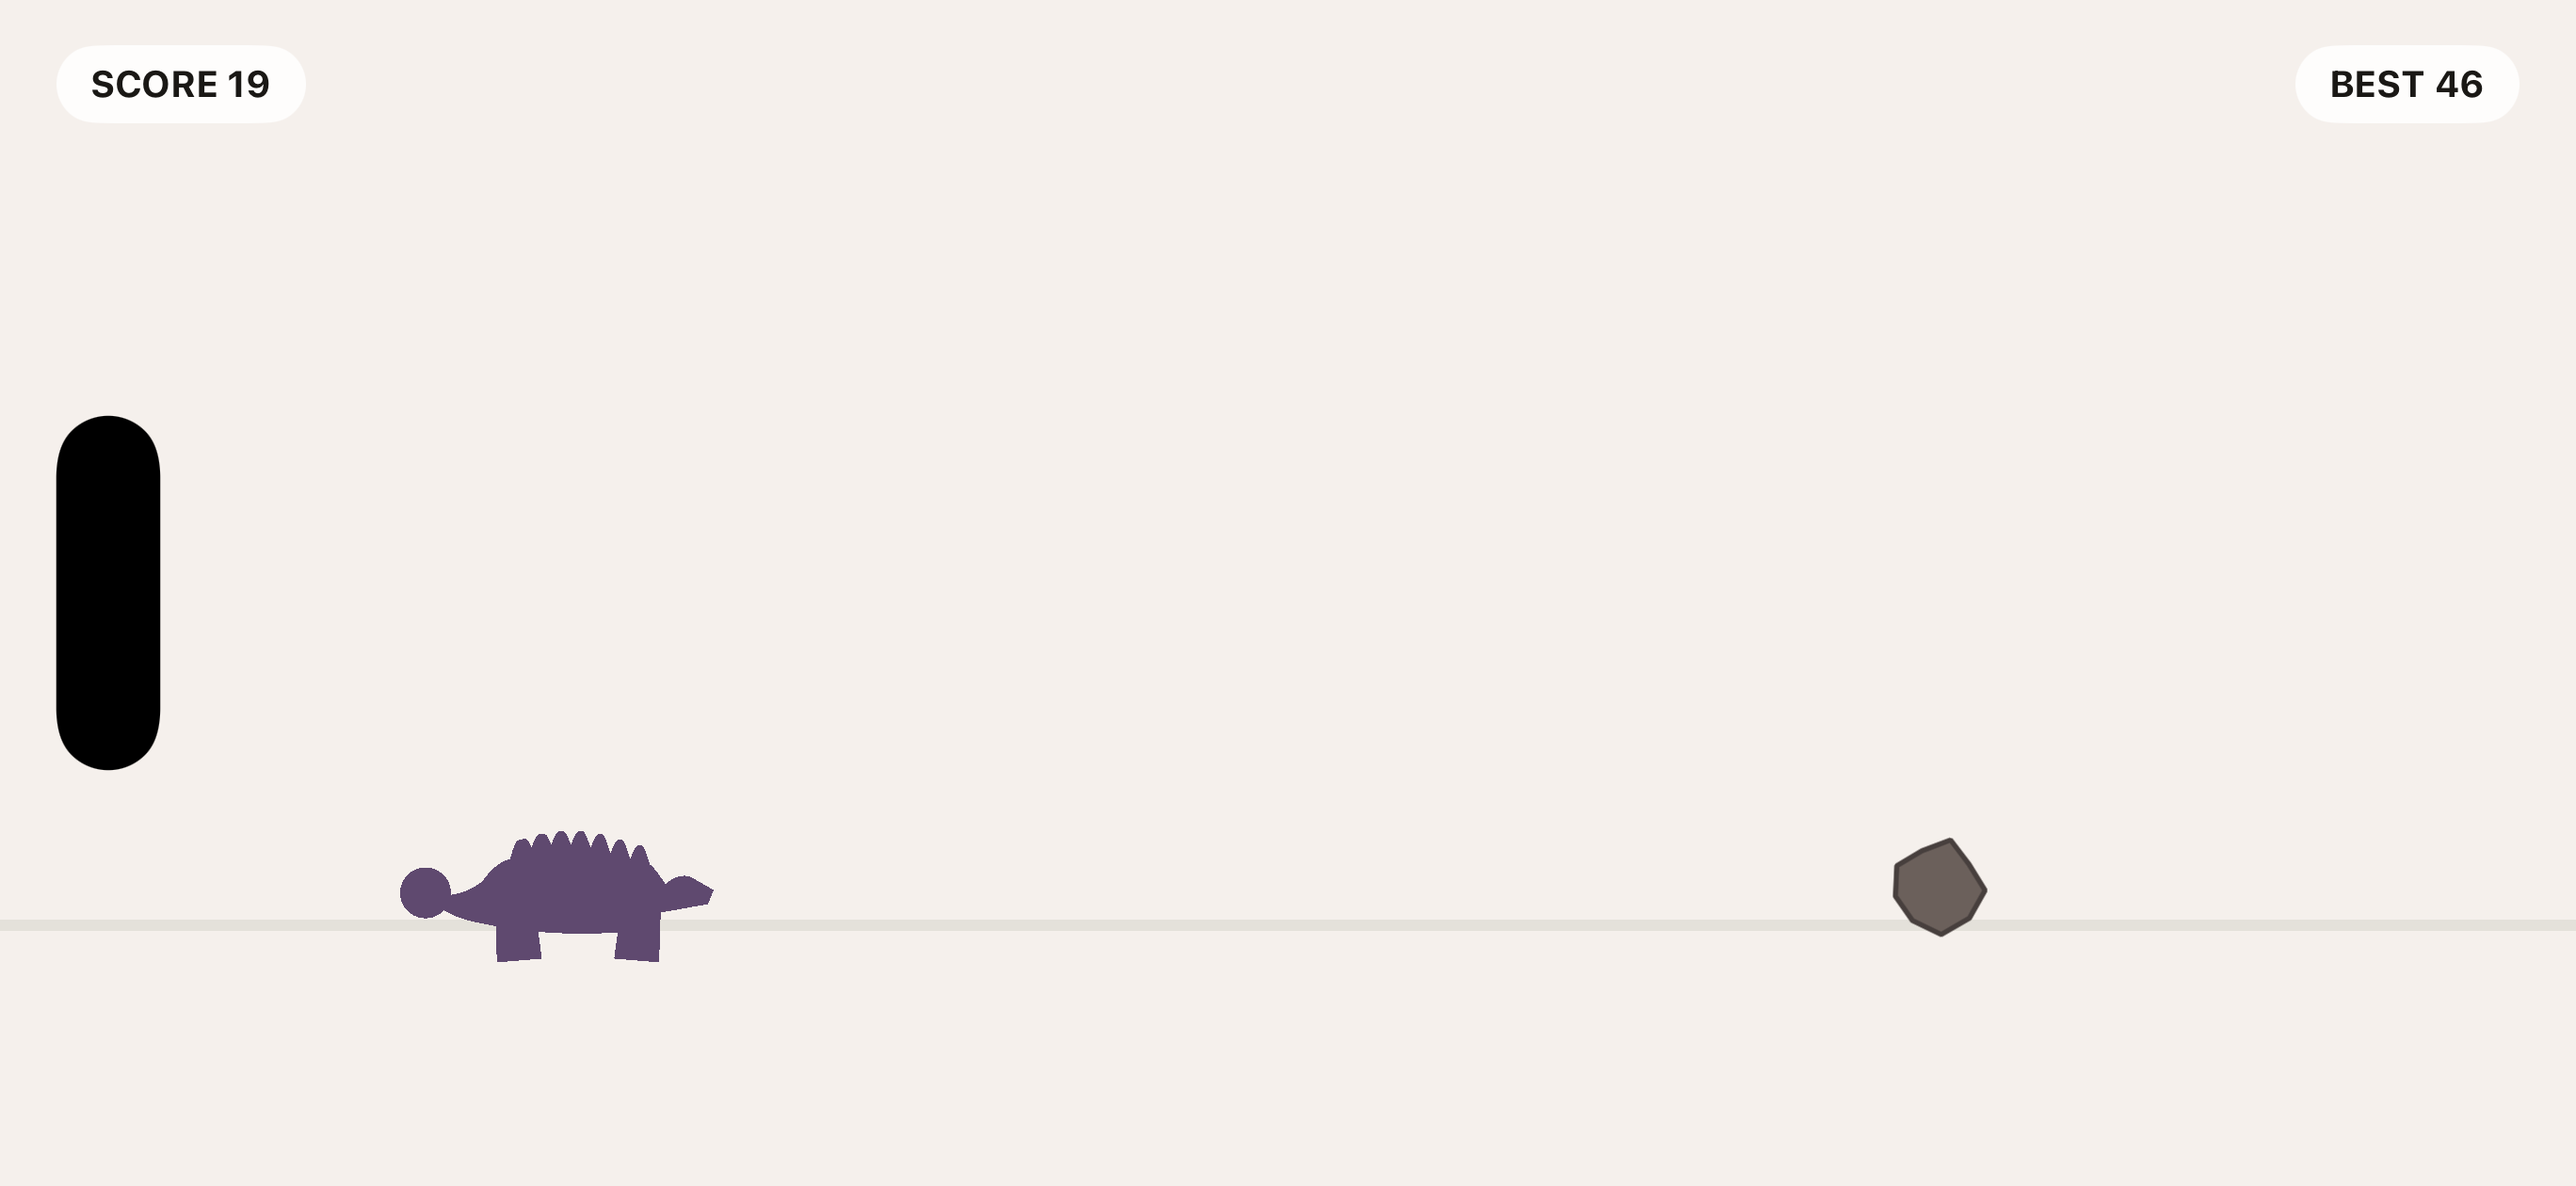
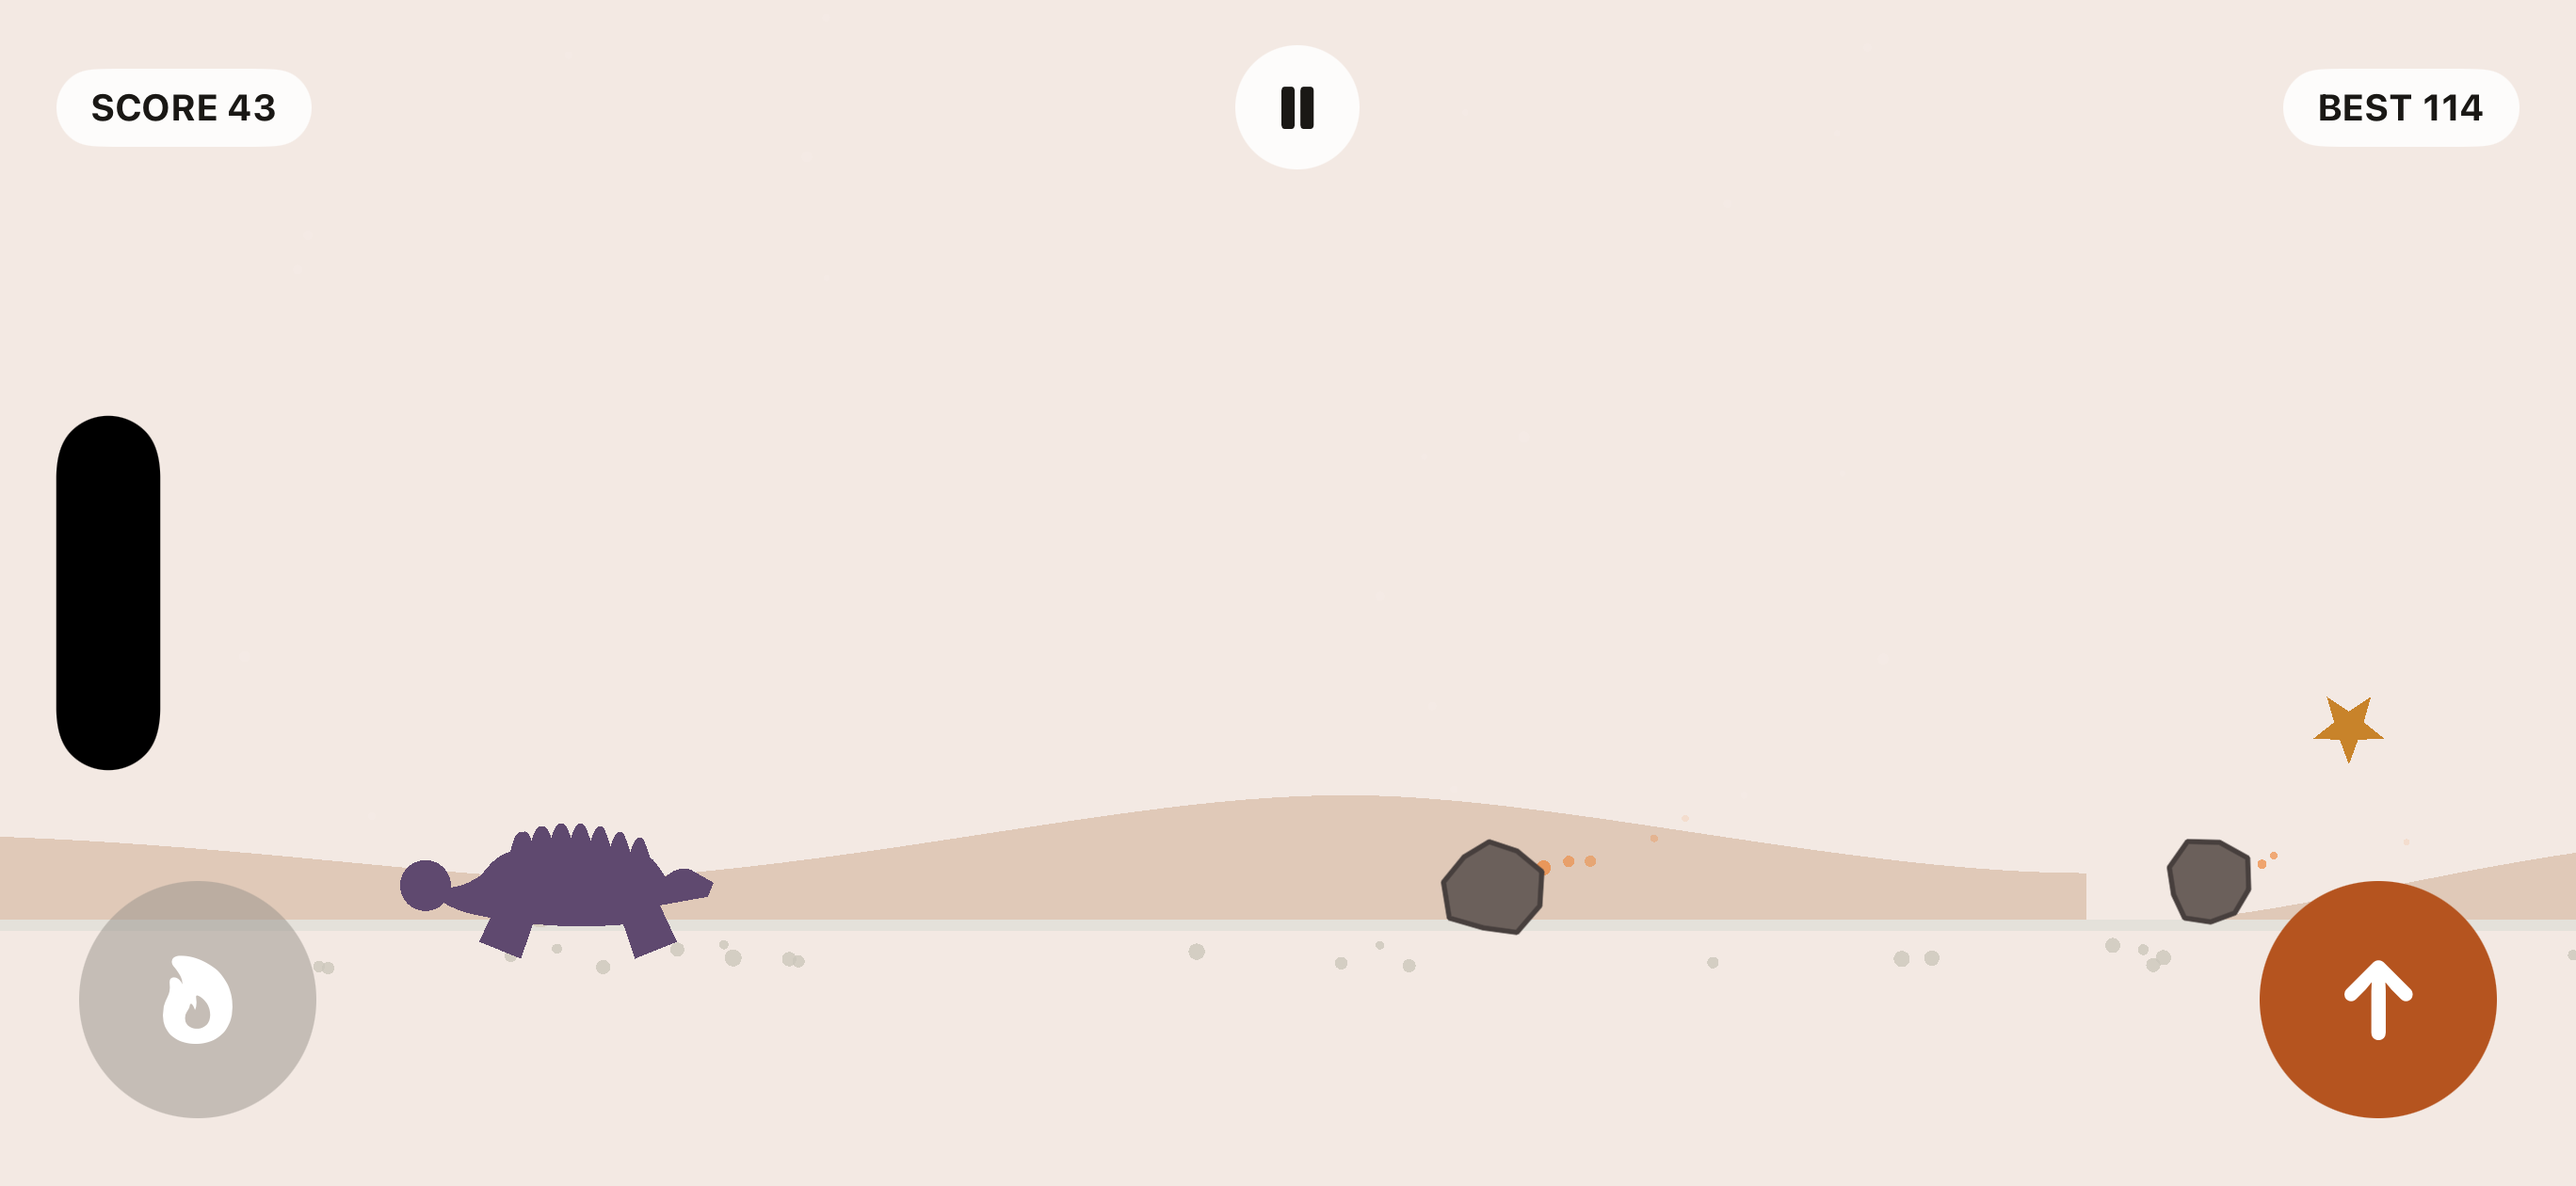
Add visual polish: parallax hills, score pop-ups, dust puffs, milestone confetti, ground texture
- Two recycling hill silhouettes scroll at a fraction of gameSpeed for depth
- Every scoring moment (near-miss, star, roar) now shows a floating +N
- Small dust puffs kick up behind the dino's feet while running
- A confetti burst + haptic fires every 250 points, on top of the existing
  gradual background-color shift
- Small pebbles scroll along the ground line for texture

All verified live in the Simulator (hills, dust, and ground texture visible
in a single captured frame; pop-ups and confetti reuse the same SKAction
pattern already confirmed working for sparks/embers).

diff --git a/DinoDash/Game/GameScene.swift b/DinoDash/Game/GameScene.swift
@@ -14,6 +14,12 @@ final class GameScene: SKScene, SKPhysicsContactDelegate {
     private var distanceSinceSpawn: CGFloat = 0
     private var nextSpawnDistance: CGFloat = GameScene.firstSpawnDistance
     private var starsLayer: SKNode!
+    private var hillsLayer: SKNode!
+    private var hillTiles: [SKShapeNode] = []
+    private var hillTileWidth: CGFloat = 0
+
+    private static let milestoneInterval = 250
+    private var nextMilestoneScore = GameScene.milestoneInterval
 
     /// A gentler opening: slower starting speed and a longer gap before the very first obstacle,
     /// so a new player (especially a kid) gets a few seconds to find the jump timing before
@@ -69,6 +75,8 @@ final class GameScene: SKScene, SKPhysicsContactDelegate {
         addChild(starsLayer)
         scatterBackgroundStars()
 
+        setupHills()
+
         dino = (gameState?.selectedDino ?? .ankylosaurus).makeNode()
         dino.zPosition = 5
         addChild(dino)
@@ -88,6 +96,62 @@ final class GameScene: SKScene, SKPhysicsContactDelegate {
         }
     }
 
+    private static let hillColor = SKColor(red: 0.80, green: 0.66, blue: 0.55, alpha: 0.5)
+
+    /// Two wide hill silhouettes that scroll slower than the foreground (a fraction of
+    /// `gameSpeed`) and recycle from left to right, giving a cheap sense of depth behind the
+    /// action without needing more than two nodes ever on screen.
+    private func setupHills() {
+        hillsLayer = SKNode()
+        hillsLayer.zPosition = 0.5
+        addChild(hillsLayer)
+
+        hillTileWidth = size.width * 1.15
+        for i in 0..<2 {
+            let hill = makeHillTile(width: hillTileWidth)
+            hill.position = CGPoint(x: hillTileWidth / 2 + CGFloat(i) * hillTileWidth, y: groundY)
+            hillsLayer.addChild(hill)
+            hillTiles.append(hill)
+        }
+    }
+
+    private func makeHillTile(width: CGFloat) -> SKShapeNode {
+        let h: CGFloat = 46
+        let path = UIBezierPath()
+        path.move(to: CGPoint(x: -width / 2, y: 0))
+        path.addCurve(to: CGPoint(x: -width / 4, y: h * 0.7),
+                       controlPoint1: CGPoint(x: -width * 0.42, y: 0),
+                       controlPoint2: CGPoint(x: -width * 0.36, y: h * 0.7))
+        path.addCurve(to: CGPoint(x: 0, y: h * 0.35),
+                       controlPoint1: CGPoint(x: -width * 0.14, y: h * 0.7),
+                       controlPoint2: CGPoint(x: -width * 0.06, y: h * 0.35))
+        path.addCurve(to: CGPoint(x: width / 4, y: h),
+                       controlPoint1: CGPoint(x: width * 0.10, y: h * 0.5),
+                       controlPoint2: CGPoint(x: width * 0.18, y: h))
+        path.addCurve(to: CGPoint(x: width / 2, y: h * 0.4),
+                       controlPoint1: CGPoint(x: width * 0.32, y: h),
+                       controlPoint2: CGPoint(x: width * 0.42, y: h * 0.4))
+        path.addLine(to: CGPoint(x: width / 2, y: 0))
+        path.close()
+
+        let hill = SKShapeNode(path: path.cgPath)
+        hill.fillColor = GameScene.hillColor
+        hill.strokeColor = .clear
+        return hill
+    }
+
+    private func updateHills(dt: CGFloat) {
+        let parallaxSpeed = gameSpeed * 0.35
+        for hill in hillTiles {
+            hill.position.x -= parallaxSpeed * dt
+        }
+        guard let leftmost = hillTiles.min(by: { $0.position.x < $1.position.x }),
+              let rightmost = hillTiles.max(by: { $0.position.x < $1.position.x }) else { return }
+        if leftmost.position.x < -hillTileWidth / 2 {
+            leftmost.position.x = rightmost.position.x + hillTileWidth
+        }
+    }
+
     func startRun() {
         enumerateChildNodes(withName: "obstacle") { node, _ in node.removeFromParent() }
         enumerateChildNodes(withName: "star") { node, _ in node.removeFromParent() }
@@ -98,9 +162,15 @@ final class GameScene: SKScene, SKPhysicsContactDelegate {
         distanceSinceSpawn = 0
         nextSpawnDistance = GameScene.firstSpawnDistance
         nextRoarScore = GameScene.roarInterval
+        nextMilestoneScore = GameScene.milestoneInterval
         isOnGround = true
         isPlaying = true
         gameState?.isRoarReady = false
+
+        enumerateChildNodes(withName: "pebble") { node, _ in node.removeFromParent() }
+        for (i, hill) in hillTiles.enumerated() {
+            hill.position.x = hillTileWidth / 2 + CGFloat(i) * hillTileWidth
+        }
 
         dino.position = CGPoint(x: size.width * 0.22, y: groundY + 20)
         dino.reset()
@@ -162,7 +232,11 @@ final class GameScene: SKScene, SKPhysicsContactDelegate {
             self.spawnSpark(at: node.position)
             node.removeFromParent()
         }
-        gameState?.score += destroyed * 10
+        if destroyed > 0 {
+            gameState?.score += destroyed * 10
+            spawnScorePopup("+\(destroyed * 10)", at: CGPoint(x: dino.position.x, y: dino.position.y + 40),
+                             color: SKColor(red: 0.76, green: 0.24, blue: 0.13, alpha: 1))
+        }
     }
 
     /// Handled natively by SpriteKit rather than a SwiftUI `.onTapGesture` on the hosting
@@ -190,7 +264,20 @@ final class GameScene: SKScene, SKPhysicsContactDelegate {
             gameState.isRoarReady = true
         }
 
+        if let gameState, gameState.score >= nextMilestoneScore {
+            nextMilestoneScore += GameScene.milestoneInterval
+            celebrateMilestone(score: gameState.score)
+        }
+
         distanceSinceSpawn += gameSpeed * CGFloat(dt)
+        updateHills(dt: CGFloat(dt))
+
+        if isOnGround, CGFloat.random(in: 0...1) < 0.22 {
+            spawnDustPuff()
+        }
+        if CGFloat.random(in: 0...1) < 0.08 {
+            spawnGroundPebble()
+        }
 
         enumerateChildNodes(withName: "obstacle") { [weak self] node, _ in
             guard let self else { return }
@@ -205,6 +292,11 @@ final class GameScene: SKScene, SKPhysicsContactDelegate {
             guard let self else { return }
             node.position.x -= self.gameSpeed * CGFloat(dt)
             if node.position.x < -80 { node.removeFromParent() }
+        }
+        enumerateChildNodes(withName: "pebble") { [weak self] node, _ in
+            guard let self else { return }
+            node.position.x -= self.gameSpeed * CGFloat(dt)
+            if node.position.x < -20 { node.removeFromParent() }
         }
 
         if distanceSinceSpawn >= nextSpawnDistance {
@@ -225,7 +317,9 @@ final class GameScene: SKScene, SKPhysicsContactDelegate {
         asteroid.userData?["counted"] = true
         if !isOnGround {
             gameState?.score += 5
-            spawnSpark(at: CGPoint(x: dino.position.x, y: dino.position.y + 20))
+            let point = CGPoint(x: dino.position.x, y: dino.position.y + 20)
+            spawnSpark(at: point)
+            spawnScorePopup("+5", at: CGPoint(x: point.x, y: point.y + 16))
         }
     }
 
@@ -240,6 +334,106 @@ final class GameScene: SKScene, SKPhysicsContactDelegate {
             .group([.scale(to: 2.2, duration: 0.3), .fadeOut(withDuration: 0.3), .moveBy(x: 0, y: 18, duration: 0.3)]),
             .removeFromParent()
         ]))
+    }
+
+    /// A floating "+N" that rises and fades — used at every scoring moment (near-miss, star,
+    /// roar) so it's always visually obvious *why* the score just jumped.
+    private func spawnScorePopup(_ text: String, at point: CGPoint,
+                                  color: SKColor = SKColor(red: 0.93, green: 0.52, blue: 0.22, alpha: 1)) {
+        let label = SKLabelNode(text: text)
+        label.fontName = "AvenirNext-Heavy"
+        label.fontSize = 20
+        label.fontColor = color
+        label.position = point
+        label.zPosition = 8
+        label.verticalAlignmentMode = .center
+        addChild(label)
+        label.run(.sequence([
+            .group([
+                .moveBy(x: 0, y: 34, duration: 0.6),
+                .scale(to: 1.15, duration: 0.6),
+                .sequence([.wait(forDuration: 0.25), .fadeOut(withDuration: 0.35)])
+            ]),
+            .removeFromParent()
+        ]))
+    }
+
+    private func spawnDustPuff() {
+        let dust = SKShapeNode(circleOfRadius: CGFloat.random(in: 2...4))
+        dust.fillColor = SKColor(red: 0.75, green: 0.68, blue: 0.58, alpha: 0.5)
+        dust.strokeColor = .clear
+        dust.position = CGPoint(x: dino.position.x + CGFloat.random(in: -12...(-2)),
+                                 y: groundY + CGFloat.random(in: 0...4))
+        dust.zPosition = 1.2
+        addChild(dust)
+        dust.run(.sequence([
+            .group([
+                .moveBy(x: CGFloat.random(in: -16...(-6)), y: CGFloat.random(in: 4...10), duration: 0.35),
+                .fadeOut(withDuration: 0.35),
+                .scale(to: 1.8, duration: 0.35)
+            ]),
+            .removeFromParent()
+        ]))
+    }
+
+    private func spawnGroundPebble() {
+        let pebble = SKShapeNode(circleOfRadius: CGFloat.random(in: 1.5...3))
+        pebble.fillColor = SKColor(red: 0.80, green: 0.78, blue: 0.74, alpha: 0.8)
+        pebble.strokeColor = .clear
+        pebble.position = CGPoint(x: size.width + 10, y: groundY - CGFloat.random(in: 6...16))
+        pebble.zPosition = 1.1
+        pebble.name = "pebble"
+        addChild(pebble)
+    }
+
+    private static let confettiColors: [SKColor] = [
+        SKColor(red: 0.93, green: 0.52, blue: 0.22, alpha: 1),
+        SKColor(red: 0.788, green: 0.514, blue: 0.165, alpha: 1),
+        SKColor(red: 0.478, green: 0.353, blue: 0.541, alpha: 1),
+        SKColor(red: 0.376, green: 0.290, blue: 0.439, alpha: 1),
+        SKColor(red: 0.76, green: 0.24, blue: 0.13, alpha: 1)
+    ]
+
+    /// A brief confetti burst plus a big score callout — fires every `milestoneInterval` points,
+    /// giving a more overt "nice!" moment than the gradual background-color shift alone provides.
+    private func celebrateMilestone(score: Int) {
+        UINotificationFeedbackGenerator().notificationOccurred(.success)
+
+        let label = SKLabelNode(text: "\(score)!")
+        label.fontName = "AvenirNext-Heavy"
+        label.fontSize = 42
+        label.fontColor = SKColor(red: 0.71, green: 0.33, blue: 0.12, alpha: 1)
+        label.position = CGPoint(x: size.width / 2, y: size.height * 0.62)
+        label.zPosition = 9
+        label.alpha = 0
+        label.setScale(0.6)
+        addChild(label)
+        label.run(.sequence([
+            .group([.fadeIn(withDuration: 0.15), .scale(to: 1.15, duration: 0.25)]),
+            .scale(to: 1.0, duration: 0.15),
+            .wait(forDuration: 0.5),
+            .group([.fadeOut(withDuration: 0.3), .moveBy(x: 0, y: 20, duration: 0.3)]),
+            .removeFromParent()
+        ]))
+
+        for _ in 0..<14 {
+            let confetti = SKShapeNode(rectOf: CGSize(width: 6, height: 6), cornerRadius: 1.5)
+            confetti.fillColor = GameScene.confettiColors.randomElement()!
+            confetti.strokeColor = .clear
+            confetti.position = CGPoint(x: CGFloat.random(in: size.width * 0.2...size.width * 0.8),
+                                         y: size.height * CGFloat.random(in: 0.75...0.95))
+            confetti.zPosition = 9
+            confetti.zRotation = CGFloat.random(in: 0...(.pi * 2))
+            addChild(confetti)
+            confetti.run(.sequence([
+                .group([
+                    .moveBy(x: CGFloat.random(in: -30...30), y: -CGFloat.random(in: 120...220), duration: 0.9),
+                    .rotate(byAngle: CGFloat.random(in: -4...4), duration: 0.9),
+                    .sequence([.wait(forDuration: 0.5), .fadeOut(withDuration: 0.4)])
+                ]),
+                .removeFromParent()
+            ]))
+        }
     }
 
     private func spawnAsteroidTrail(at point: CGPoint) {
@@ -305,6 +499,8 @@ final class GameScene: SKScene, SKPhysicsContactDelegate {
             let starNode = contact.bodyA.categoryBitMask == PhysicsCategory.star ? contact.bodyA.node : contact.bodyB.node
             if let starNode {
                 spawnSpark(at: starNode.position)
+                spawnScorePopup("+25", at: CGPoint(x: starNode.position.x, y: starNode.position.y + 16),
+                                 color: SKColor(red: 0.788, green: 0.514, blue: 0.165, alpha: 1))
                 starNode.removeFromParent()
             }
             run(.playSoundFileNamed("collect.wav", waitForCompletion: false))

diff --git a/README.md b/README.md
@@ -4,7 +4,7 @@ A simple endless runner for my son — pick a dino (Ankylosaurus by default, or 
 
 <p>
   <img src="screenshots/start.png" width="260" alt="Start screen with the Ankylosaurus selected, character picker arrows, and Tap to Start button">
-  <img src="screenshots/gameplay.png" width="260" alt="Mid-run gameplay — the Ankylosaurus dodging an asteroid, live score and best HUD pills">
+  <img src="screenshots/gameplay.png" width="260" alt="Mid-run gameplay — the Ankylosaurus running past asteroids and a star, with parallax hills, ground texture, and foot dust">
 </p>
 
 *(Screenshots are from live Simulator gameplay, not mockups.)*
@@ -12,5 +12,5 @@ A simple endless runner for my son — pick a dino (Ankylosaurus by default, or 
 ## How it works
 
 - **Start** — shows your best score (if any), the currently selected dino with left/right arrows to switch characters, and waits for a tap anywhere to begin.
-- **Play** — the dino auto-runs; tap anywhere (or the on-screen jump button) to jump, with a whoosh sound effect. Asteroids come in two flavors: ground-level ones you must jump, and elevated ones you must *not* jump into, each trailing small falling embers. Speed and spawn frequency ramp up the longer you survive. Clearing a ground asteroid mid-air by a hair scores a near-miss bonus with a spark effect; collectible stars chime when grabbed mid-jump. Every 100 points, the roar button (bottom-left) lights up — tap it to sweep a shockwave across the screen that clears every current asteroid for a bonus, then it greys out until the next 100. A pause button at the top freezes the run and shows your current dino front and center until you tap Resume. The background gradually shifts from cream daylight to dusk to a starry night as your score climbs.
+- **Play** — the dino auto-runs, kicking up little dust puffs as it goes, past rolling parallax hills and a pebble-textured ground; tap anywhere (or the on-screen jump button) to jump, with a whoosh sound effect. Asteroids come in two flavors: ground-level ones you must jump, and elevated ones you must *not* jump into, each trailing small falling embers. Speed and spawn frequency ramp up the longer you survive. Every scoring moment shows a floating "+N" — clearing a ground asteroid mid-air by a hair scores a near-miss bonus with a spark effect, and collectible stars chime when grabbed mid-jump. Every 250 points brings a confetti-and-haptic celebration; every 100 points, the roar button (bottom-left) lights up — tap it to sweep a shockwave across the screen that clears every current asteroid for a bonus, then it greys out until the next 100. A pause button at the top freezes the run and shows your current dino front and center until you tap Resume. The background gradually shifts from cream daylight to dusk to a starry night as your score climbs.
 - **Crash** — a thud, a screen flash, and a haptic thump, then your score and (if beaten) a "New High Score!" callout. Tap anywhere to retry instantly with the same dino, or tap **Change Dino** to head back to the Start screen and pick a different character.
